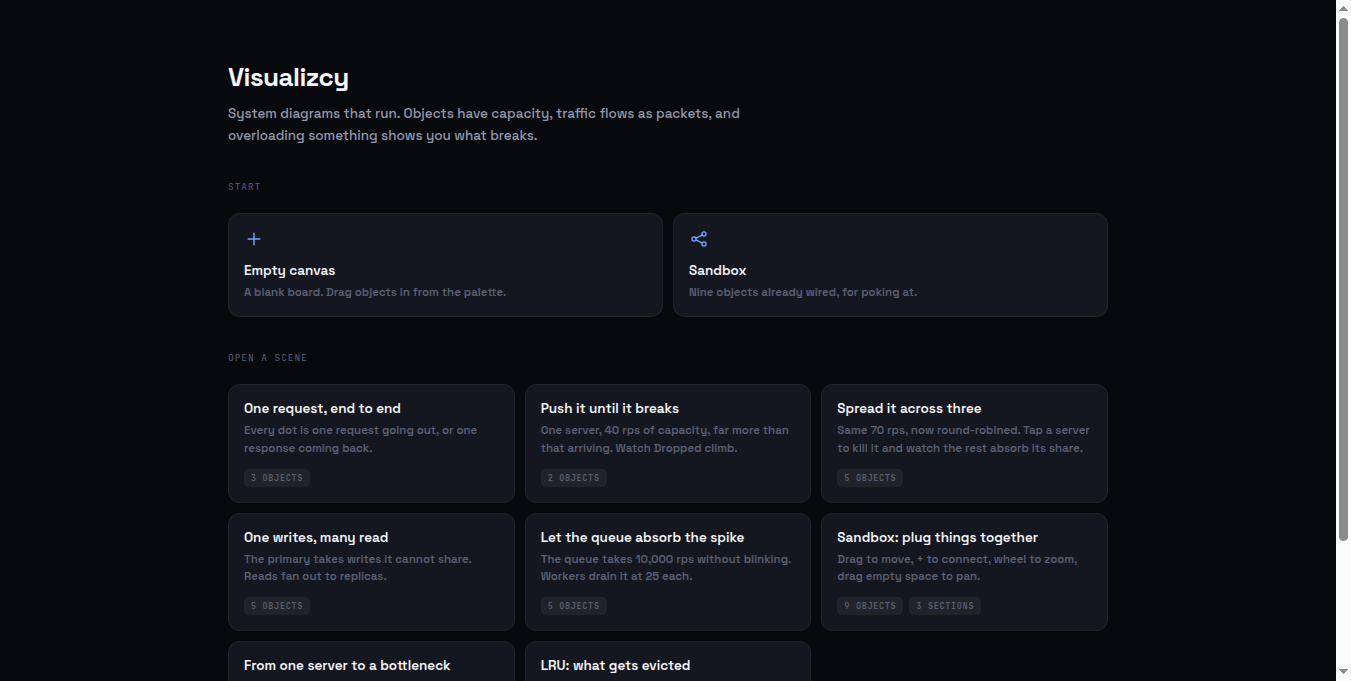
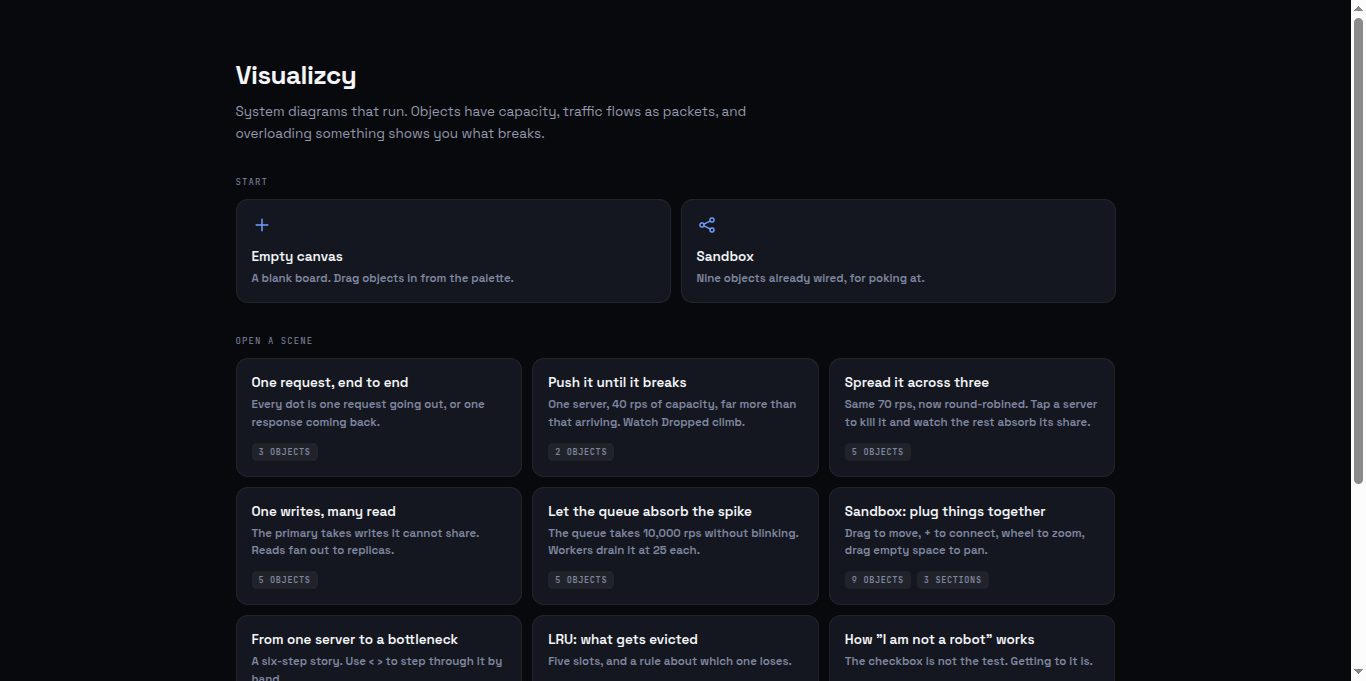
Fix the start screen, and separate the camera from the export frame
Three bugs, two of them mine from the shell rewrite.

The start-screen cards are <button>s and inherited the toolbar button base,
including white-space: nowrap. Every description rendered 365px wide inside a
287px card and collided with its neighbour — that is the mess. align-items:
center from the same rule also overrode text-align: left. Both reset explicitly.

The start screen was skipped entirely on load: the last line called open(),
which hides it. So the app opened into whichever scene came first, defeating the
reason the screen exists. The first scene is now primed behind it instead.

And the one worth the most: the camera and the export frame were the same
thing. The resting view now sits at 0.78 so there is visible board around the
frame — at zoom 1 the canvas WAS the frame, which is why nothing could be placed
outside it. beginExport() pins the camera to the frame and restores it after,
because until now panning before pressing record silently changed what the
video contained.

diff --git a/index.html b/index.html
@@ -156,11 +156,17 @@
   .home-head p { font-size: 13.5px; line-height: 1.6; color: var(--dim); margin: 0; max-width: 560px; }
   .home-sec { display: flex; flex-direction: column; gap: 11px; }
   .home-start { display: grid; grid-template-columns: repeat(2, minmax(0, 1fr)); gap: 10px; }
+  /* These are <button>s, so they inherit the toolbar button base — which sets
+     white-space: nowrap and align-items: center for a one-line control. Both are
+     wrong for a card: nowrap made every description overflow its card by ~78px
+     and collide with the next one. Reset them explicitly. */
   .start-card, .tpl {
-    display: flex; flex-direction: column; gap: 5px; text-align: left; height: auto;
+    display: flex; flex-direction: column; align-items: stretch; gap: 5px;
+    text-align: left; height: auto; white-space: normal;
     background: var(--card); border: 1px solid var(--edge); border-radius: 12px;
     padding: 15px; cursor: pointer; transition: .13s; font-family: var(--display);
   }
+  .sc-d, .tpl-d, .now-d, .tip { overflow-wrap: anywhere; }
   .start-card:hover, .tpl:hover { border-color: rgba(110,160,255,.45); background: #171b25; }
   .sc-ico { color: var(--accent); margin-bottom: 4px; }
   .sc-t, .tpl-t { font-size: 13.5px; font-weight: 600; color: var(--text); }
@@ -474,13 +480,13 @@ for (const s of SCENES) {
   grid.appendChild(b)
 }
 
-function open(def) {
+function open(def, { keepHome = false } = {}) {
   current = def
   engine.load(def)
   $('caption').innerHTML =
     `<div class="now-t">${def.title}</div><div class="now-d">${def.caption || ''}</div>`
   for (const el of list.children) el.setAttribute('aria-pressed', String(el.dataset.id === def.id))
-  $('home').hidden = true
+  if (!keepHome) $('home').hidden = true
   if (editing) openEditor()
   requestAnimationFrame(sizeFrame)
   paint()
@@ -592,7 +598,10 @@ $('ed-text').addEventListener('input', () => {
 
 // keep In flight ticking even while idle
 setInterval(paint, 120)
-open(current)
+
+// Prime the first scene but stay on the start screen: opening straight into a
+// scene is what the start screen exists to avoid.
+open(current, { keepHome: true })
 </script>
 </body>
 </html>

diff --git a/src/render.js b/src/render.js
@@ -52,11 +52,23 @@ export function createRenderer(canvas) {
     y: (sy - H / 2) / cam.zoom + cam.y,
   })
 
-  function resetCamera() {
+  // The resting view is slightly pulled back, so there is visible board around
+  // the export frame. At zoom 1 the canvas WAS the frame, which is why placing
+  // anything outside it felt walled off — there was nowhere visible to put it.
+  const REST_ZOOM = 0.78
+
+  function resetCamera(zoom = REST_ZOOM) {
     cam.x = W / 2
     cam.y = H / 2
-    cam.zoom = 1
+    cam.zoom = zoom
     camTouched = false
+  }
+
+  // Export ignores wherever you happen to be looking and renders the frame.
+  function frameCamera() {
+    const keep = { ...cam }
+    resetCamera(1)
+    return () => { cam.x = keep.x; cam.y = keep.y; cam.zoom = keep.zoom; camTouched = true }
   }
 
   function panBy(dxScreen, dyScreen) {
@@ -864,7 +876,7 @@ export function createRenderer(canvas) {
   resize()
   return {
     draw, resize, fit, hitTest, hoverTargetAt, fromPx, handleAt, edgeHitTest, sectionHeadAt,
-    toFrame, resetCamera, panBy, zoomAt,
+    toFrame, resetCamera, frameCamera, panBy, zoomAt,
     setHover: id => { hoverId = id },
     setHoverEdge: e => { hoverEdge = e },
     setHoverSection: id => { hoverSection = id },

diff --git a/src/engine.js b/src/engine.js
@@ -46,8 +46,13 @@ export function createEngine(canvas, sceneDef, opts = {}) {
   // The rAF loop hands the sim whatever dt the display gave it. Export needs the
   // opposite: a dt we choose, so the same clip renders identically anywhere.
 
+  let restoreCamera = null
+
   function beginExport() {
     stop()                       // take the rAF loop out of the way
+    // A recording must be the export frame, not whatever you were looking at.
+    // Without this, panning before pressing record silently changed the video.
+    restoreCamera = renderer.frameCamera()
     sim.reset({ replay: true })
     sim.state.running = true
     if (timeline) { timeline.restart(); timeline.state.playing = true }
@@ -63,6 +68,7 @@ export function createEngine(canvas, sceneDef, opts = {}) {
   }
 
   function endExport() {
+    if (restoreCamera) { restoreCamera(); restoreCamera = null }
     sim.state.running = false
     if (timeline) timeline.state.playing = false
     onStats(sim.state.stats)

diff --git a/.claude/skills/visualizcy-ui/SKILL.md b/.claude/skills/visualizcy-ui/SKILL.md
@@ -94,6 +94,26 @@ work; every one of these looked fine.
 Icon-only controls carry `aria-label`, not only `title`. Focus is an explicit
 `:focus-visible` ring — the browser default is close to invisible on `#08090d`.
 
+## Cards are buttons, and buttons carry baggage
+
+`.tpl` and `.start-card` are `<button>`s, so they inherit the toolbar button
+base — including `white-space: nowrap` and `align-items: center`, both correct
+for a one-line control and both wrong for a card. Nowrap made every start-screen
+description render 365px wide inside a 287px card and collide with its
+neighbour; centring silently overrode `text-align: left`.
+
+Reset `white-space` and `align-items` explicitly on anything that borrows the
+button base for a non-button.
+
+## The camera is not the export frame
+
+They are separate things and conflating them caused two bugs at once. The
+resting camera sits at `0.78` so there is visible board around the frame —
+at zoom 1 the canvas *was* the frame, which is why placing anything outside it
+felt walled off. And `beginExport()` pins the camera to the frame and restores
+it afterwards, because otherwise panning before pressing record silently changed
+what the video contained.
+
 ## Panels
 
 Each panel is one job with one `.lbl` heading. When a panel needs a second

diff --git a/README.md b/README.md
@@ -245,6 +245,14 @@ A refused connection is not a step: the mark is popped back off.
 
 ## The board is bigger than the frame
 
+The resting view sits at zoom `0.78`, so there is visible board around the
+export frame. At zoom 1 the canvas *was* the frame, which is why placing
+anything outside it felt walled off — there was nowhere visible to put it.
+
+Recording pins the camera to the frame and restores it afterwards: a render is
+the export frame, never wherever you happened to be looking.
+
+
 ![off-canvas](docs/offcanvas.png)
 
 `0..1` is the **export frame**, not the world. Objects can be parked outside it:
